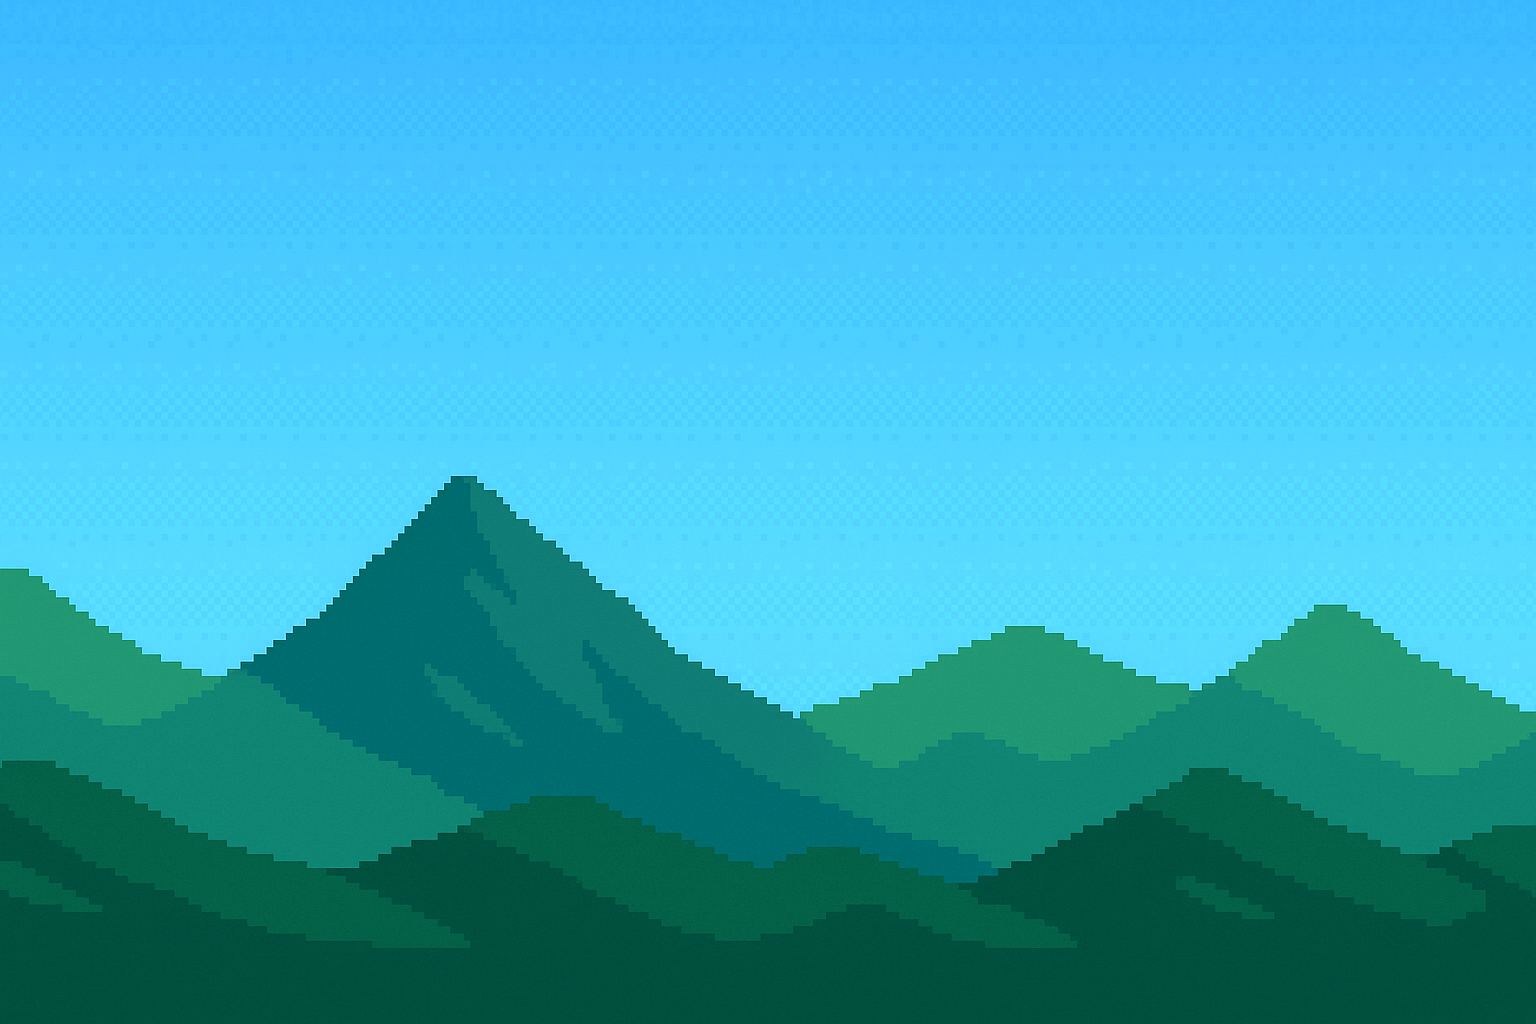
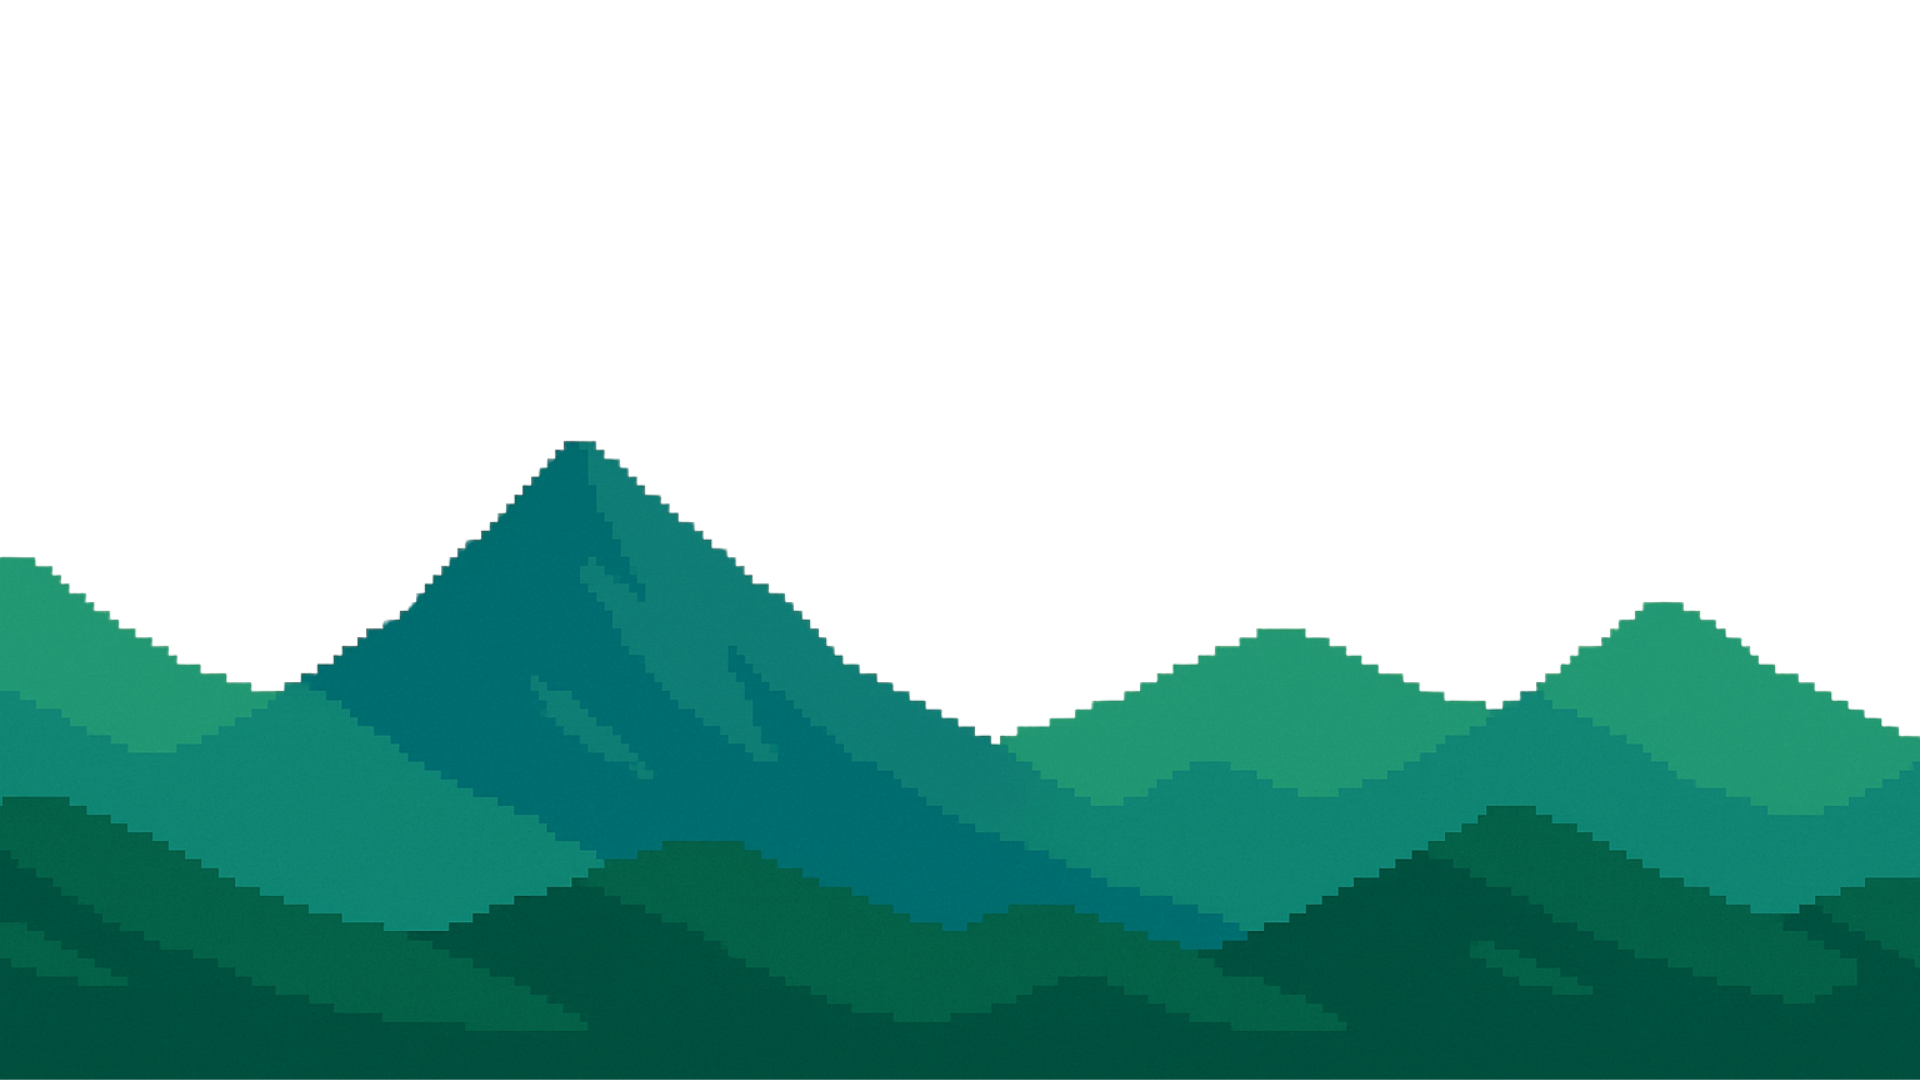
added platforms and parallax

diff --git a/src/core/Player.cpp b/src/core/Player.cpp
@@ -1,67 +1,115 @@
 #include "core/Player.h"
 #include "SpriteUtils.h"
-#include "config.h"       // <-- WICHTIG: Einbinden, um die virtuellen Dimensionen zu kennen
+#include "config.h" // <-- WICHTIG: Einbinden, um die virtuellen Dimensionen zu kennen
 
-Player::Player() {
+Player::Player()
+{
     reset();
 }
 
-void Player::reset() {
-    position = { 100, 100 }; // Startposition
-    velocity = { 0, 0 };    // Keine Anfangsgeschwindigkeit
-    canJump = false;        // Kann am Anfang nicht springen (erst bei Bodenkontakt)
+void Player::reset()
+{
+    position = {100, 100}; // Startposition
+    velocity = {0, 0};     // Keine Anfangsgeschwindigkeit
+    canJump = false;       // Kann am Anfang nicht springen (erst bei Bodenkontakt)
 }
 
-Vector2 Player::getPosition() const {
+Vector2 Player::getPosition() const
+{
     return position;
 }
 
-void Player::load() {
+void Player::load()
+{
     // Wir nehmen den Sprite, der schon in main geladen wurde
     sprite = loadSprite("assets/sprites/player/player.png", 20);
 }
 
-void Player::unload() {
+void Player::unload()
+{
     UnloadTexture(sprite);
 }
 
-void Player::update(float delta) {
-    // 1. Spielereingabe (links/rechts)
+void Player::update(float delta, const std::vector<Rectangle> &platforms)
+{
+    // --- Eingabe verarbeiten ---
     velocity.x = 0;
-    if (IsKeyDown(KEY_A) || IsKeyDown(KEY_LEFT)) {
+    if (IsKeyDown(KEY_A) || IsKeyDown(KEY_LEFT))
+    {
         velocity.x = -MOVE_SPEED;
     }
-    if (IsKeyDown(KEY_D) || IsKeyDown(KEY_RIGHT)) {
+    if (IsKeyDown(KEY_D) || IsKeyDown(KEY_RIGHT))
+    {
         velocity.x = MOVE_SPEED;
     }
-
-    // 2. Springen
-    if (IsKeyPressed(KEY_SPACE) && canJump) {
+    if (IsKeyPressed(KEY_SPACE) && canJump)
+    {
         velocity.y = JUMP_SPEED;
         canJump = false;
     }
 
-    // 3. Physik anwenden
-    velocity.y += GRAVITY * delta;
-    position.x += velocity.x * delta;
-    position.y += velocity.y * delta;
+    // --- Bewegung & Kollision anwenden ---
 
-    // 4. Provisorischer Boden
-    // KORREKTUR: Benutze VIRTUAL_SCREEN_HEIGHT statt GetScreenHeight()
-    float groundLevel = VIRTUAL_SCREEN_HEIGHT - 150.0f; 
-    if (position.y >= groundLevel) {
-        position.y = groundLevel;
-        velocity.y = 0;
-        canJump = true;
+    // 1. Horizontale Bewegung
+    position.x += velocity.x * delta;
+    Rectangle playerBounds = getBounds();
+    for (const auto &platform : platforms)
+    {
+        if (CheckCollisionRecs(playerBounds, platform))
+        {
+            // Bei Kollision, bewege Spieler aus der Plattform heraus
+            if (velocity.x > 0)
+            { // Bewegt sich nach rechts
+                position.x = platform.x - playerBounds.width;
+            }
+            else if (velocity.x < 0)
+            { // Bewegt sich nach links
+                position.x = platform.x + platform.width;
+            }
+        }
+    }
+
+    // 2. Vertikale Bewegung
+    position.y += velocity.y * delta;
+    playerBounds = getBounds(); // Position aktualisieren
+    canJump = false;            // Zurücksetzen, Landung wird weiter unten geprüft
+
+    for (const auto &platform : platforms)
+    {
+        if (CheckCollisionRecs(playerBounds, platform))
+        {
+            if (velocity.y > 0)
+            {                                                  // Fällt nach unten
+                position.y = platform.y - playerBounds.height; // Auf Plattform landen
+                velocity.y = 0;
+                canJump = true; // Kann wieder springen
+            }
+            else if (velocity.y < 0)
+            {                                              // Springt nach oben
+                position.y = platform.y + platform.height; // An Unterseite stoppen
+                velocity.y = 0;
+            }
+        }
+    }
+
+    // 3. Gravitation anwenden (wenn nicht auf einer Plattform)
+    velocity.y += GRAVITY * delta;
+
+    // Optional: Verhindere, dass die Gravitation zu extrem wird
+    if (velocity.y > JUMP_SPEED * -2)
+    {
+        velocity.y = JUMP_SPEED * -2;
     }
 }
 
-void Player::draw() const {
+void Player::draw() const
+{
     Rectangle src = {0, 0, 100, 100};
     Rectangle dest = getBounds();
     DrawTexturePro(sprite, src, dest, {0, 0}, 0, WHITE);
 }
 
-Rectangle Player::getBounds() const {
-    return { position.x, position.y, 100, 100 };
+Rectangle Player::getBounds() const
+{
+    return {position.x, position.y, 100, 100};
 }

diff --git a/src/screens/GameScreen.cpp b/src/screens/GameScreen.cpp
@@ -5,9 +5,9 @@
 
 GameScreen::GameScreen()
 {
-    camera = { 0 };
+    camera = {0};
     // Der Offset sorgt dafür, dass die Kamera den Spieler in der Mitte des Bildschirms hält
-    camera.offset = { (float)VIRTUAL_SCREEN_WIDTH / 2.0f, (float)VIRTUAL_SCREEN_HEIGHT / 2.0f };
+    camera.offset = {(float)VIRTUAL_SCREEN_WIDTH / 2.0f, (float)VIRTUAL_SCREEN_HEIGHT / 2.0f};
     camera.rotation = 0.0f;
     camera.zoom = 1.0f;
 }
@@ -19,16 +19,23 @@ void GameScreen::load(LevelManager *levelManager, int levelIndex)
 
     const LevelInfo &info = levelMgr->get(currentLevel);
 
-    // KORREKTUR: Lade den Hintergrund aus den Level-Daten
-    background = LoadTexture(info.backgroundPath.c_str());
+    backgroundSky = LoadTexture("assets/ui/background_sky.png");
+    backgroundHills = LoadTexture("assets/ui/background_hills.png");
 
     player.reset(); // Spieler auf Startposition zurücksetzen
     player.load();
+
+    platforms.clear();                        // Alte Plattformen löschen
+    platforms.push_back({0, 800, 2000, 200}); // Langer Boden
+    platforms.push_back({400, 650, 250, 50}); // Eine schwebende Plattform
+    platforms.push_back({800, 550, 250, 50}); // Noch eine...
+    platforms.push_back({1200, 450, 150, 50});
 }
 
 void GameScreen::unload()
 {
-    UnloadTexture(background);
+    UnloadTexture(backgroundSky);
+    UnloadTexture(backgroundHills);
     player.unload();
 }
 
@@ -43,7 +50,7 @@ void GameScreen::update()
         return;
     }
 
-    player.update(GetFrameTime());
+    player.update(GetFrameTime(), platforms);
 
     camera.target = player.getPosition();
 }
@@ -52,11 +59,24 @@ void GameScreen::draw() const
 {
 
     BeginMode2D(camera);
-    // KORREKTUR: Zeichne den Hintergrund auf die virtuelle Leinwand
-    DrawTexturePro(background,
-                   {0, 0, (float)background.width, (float)background.height},
-                   {0, 0, (float)VIRTUAL_SCREEN_WIDTH, (float)VIRTUAL_SCREEN_HEIGHT},
-                   {0, 0}, 0, WHITE);
+
+    for (const auto &platform : platforms)
+    {
+        DrawRectangleRec(platform, GRAY);
+    }
+
+    Rectangle skySource = {camera.target.x * 0.1f, 0, (float)VIRTUAL_SCREEN_WIDTH, (float)backgroundSky.height};
+    Rectangle skyDest = {camera.target.x - VIRTUAL_SCREEN_WIDTH / 2.0f, 0, (float)VIRTUAL_SCREEN_WIDTH, (float)VIRTUAL_SCREEN_HEIGHT};
+    DrawTexturePro(backgroundSky, skySource, skyDest, {0, 0}, 0, WHITE);
+
+    Rectangle hillsSource = {camera.target.x * 0.5f, 0, (float)VIRTUAL_SCREEN_WIDTH, (float)backgroundHills.height};
+    Rectangle hillsDest = {camera.target.x - VIRTUAL_SCREEN_WIDTH / 2.0f, 0, (float)VIRTUAL_SCREEN_WIDTH, (float)VIRTUAL_SCREEN_HEIGHT};
+    DrawTexturePro(backgroundHills, hillsSource, hillsDest, {0, 0}, 0, WHITE);
+
+    for (const auto &platform : platforms)
+    {
+        DrawRectangleRec(platform, DARKGRAY); // Geändert zu DARKGRAY für besseren Kontrast
+    }
 
     player.draw();
 

diff --git a/include/core/Player.h b/include/core/Player.h
@@ -2,13 +2,14 @@
 
 #pragma once
 #include "raylib.h"
+#include <vector>
 
 class Player {
 public:
     Player();
     void load();
     void unload();
-    void update(float delta);
+    void update(float delta, const std::vector<Rectangle>& platforms); 
     void draw() const;
     void reset();
     Rectangle getBounds() const;

diff --git a/include/screens/GameScreen.h b/include/screens/GameScreen.h
@@ -21,8 +21,10 @@ public:
 private:
     LevelManager* levelMgr = nullptr;
     int currentLevel = -1;
-    Texture2D background;
+    Texture2D backgroundSky;   
+    Texture2D backgroundHills;
     Camera2D camera;
+    std::vector<Rectangle> platforms;
     std::function<void()> onFinish;
     Player player; 
 };
